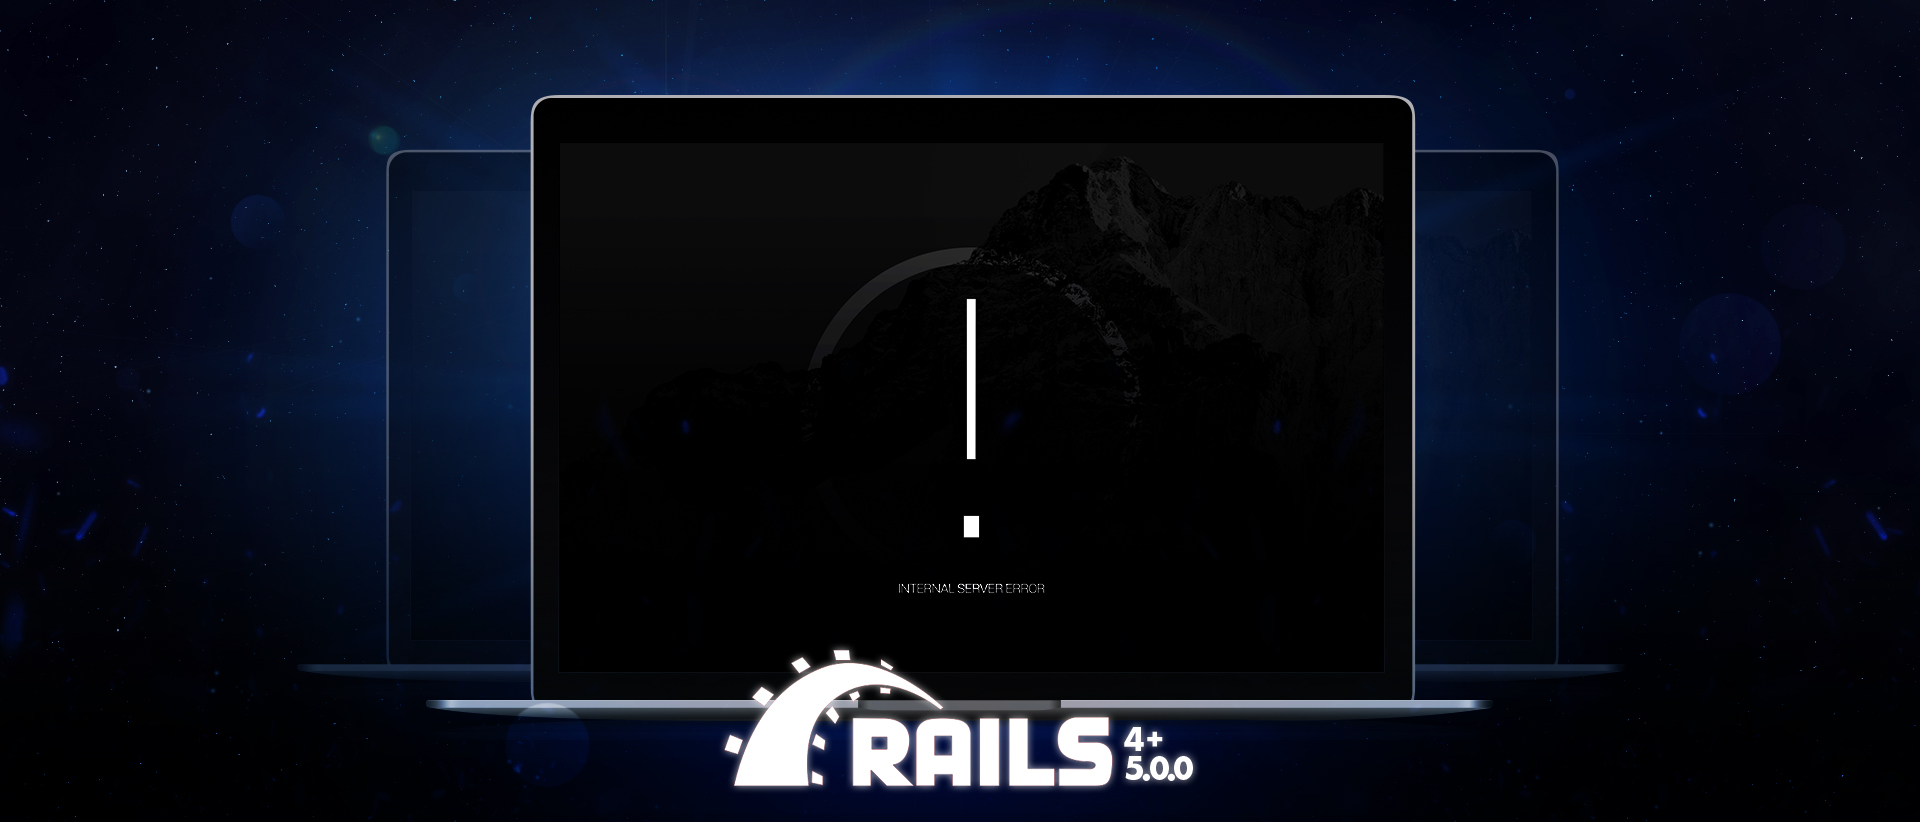
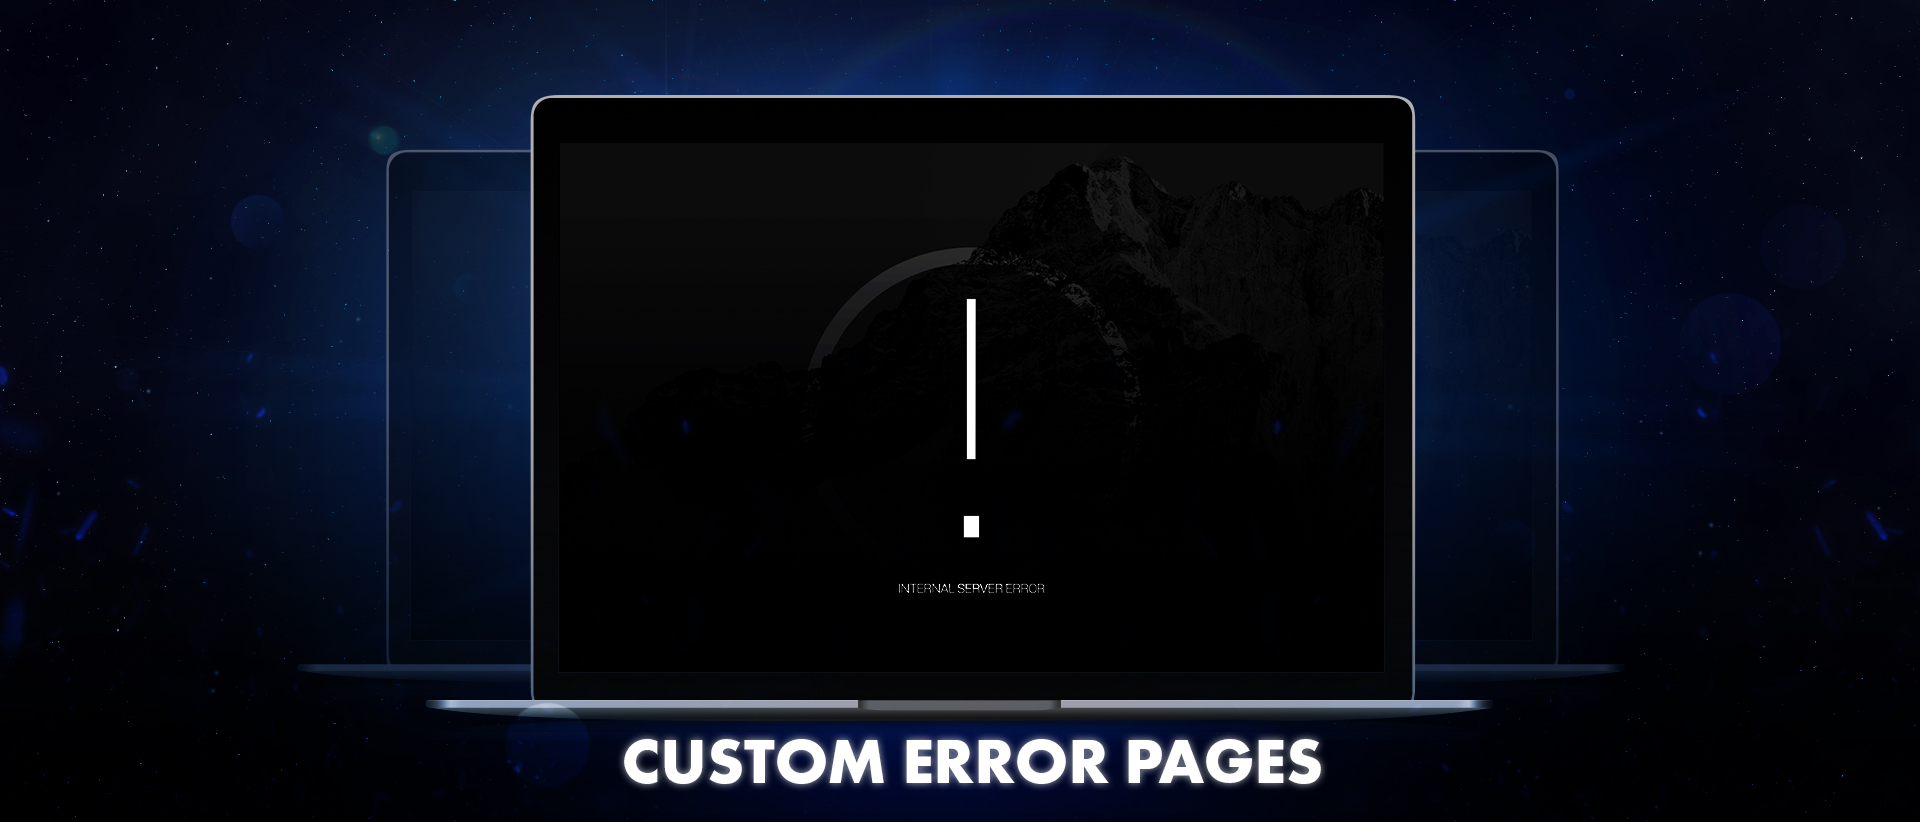
Readme
Former-commit-id: da5f3fe8df3628e07b5cc3a3f1a80f0022c3be31
Former-commit-id: 6229f78c04f286cd54f39c55e65e9df1001ea17e

Changed region(s): [[0.3125, 0.7908, 0.6875, 0.9732]]

diff --git a/README.md b/README.md
@@ -12,15 +12,14 @@
 
 **ExceptionHandler** helps you can create custom **404 & 500 production error pages** *(adapted from [**1**](https://gist.github.com/wojtha/8433843) & [**2**](http://www.sharagoz.com/posts/1-rolling-your-own-exception-handler-in-rails-3))*.
 
-Fully Rails 4 & 5 compatible:
-
 ![Exceptions_App middleware](/readme/subtitle.jpg)
 
 <p align="center">
-  <img src="/readme/titles/custom_error_pages.png" title="Exceptions_App middleware" />
+  <img src="/readme/titles/custom_error_pages.png" title="Exceptions_App middleware" /><br />
+  <img src="/readme/rails.png" title="Ruby on Rails 4.2+ & 5 Compatible" />
 </p>
 
-**ExceptionHandler** is the only production-ready custom error page solution for Rails. Customize your `404` and `500` error pages to be branded to your application. 
+**ExceptionHandler** is the only production-ready custom error page solution for Rails. Customize your `404` and `500` error pages to be branded to your application in production. 
 
 ---
 
